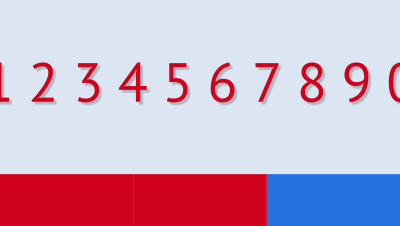
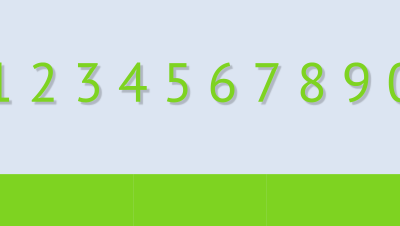
Insert zip content

diff --git a/.contentfusion/templates/1 2 3 4 5 6 7 8 9 0/styles.css b/.contentfusion/templates/1 2 3 4 5 6 7 8 9 0/styles.css
@@ -1,5 +1,5 @@
 /*#
-@colors&{"titlesAccentColor":"#d0021b","labelsAccentColor":"#d0021b","linksAccentColor":"#2372de","backgroundAccentColor":"#dce5f2","isDefault":true}&colors@
+@colors&{"titlesAccentColor":"#7ed321","labelsAccentColor":"#7ed321","linksAccentColor":"#7ed321","backgroundAccentColor":"#dce5f2","isDefault":true}&colors@
 @info@STYLES BASKET SELECTIONS METADATA@info@
 @name&styles_basket&name@
 @aspects&wh-tiles,wh-menu-page-colors-link-color,wh-search-component-colors-white,wh-search-component-background-color-light,wh-search-component-padding-extra-extra-large,titles-color-labels,wh-left-toc-underline-selection,wh-breadcrumb-colors-custom,wh-index-terms-styles-titles-bold,notes-layout-two-lines,notes-style-borders-box,notes-colors-colorful,wh-footer-background-color-light,table-colors-black-white,related-links-background-accent-color,related-links-colors-titles,fonts-selector,accent-colors-selector&aspects@
@@ -68,23 +68,23 @@
 *[class~="placeholder/figurelist"] > *[class~="topic/title"],
 *[class~="placeholder/tablelist"] > *[class~="topic/title"],
 *[class~="index/groups"]::before {
-  color: #d0021b;
+  color: #7ed321;
 }
 *[class~='topic/shortdesc']:before {
-  color: #d0021b;
+  color: #7ed321;
 }
 *[class~='topic/xref'],
 *[class~='topic/link'] {
-  color: #2372de;
+  color: #7ed321;
 }
 .related-links a,
 .related-links a:visited {
-  color: #2372de;
+  color: #7ed321;
 }
 a,
 a:hover,
 a:visited {
-  color: #2372de;
+  color: #7ed321;
 }
 *[class~='topic/table'] th {
   background-color: #dce5f2;
@@ -130,7 +130,7 @@ body {
 *[class~="placeholder/figurelist"] > *[class~="topic/title"],
 *[class~="placeholder/tablelist"] > *[class~="topic/title"],
 *[class~="index/groups"]::before {
-  color: #d0021b;
+  color: #7ed321;
 }
 /*table-colors-black-white*/
 *[class~='topic/table'] th {
@@ -167,7 +167,7 @@ span.note__title {
 }
 /*related-links-colors-titles*/
 *[class~="topic/linklist"] > strong {
-  color: #d0021b;
+  color: #7ed321;
 }
 /*related-links-background-accent-color*/
 *[class~="topic/linklist"] {
@@ -196,7 +196,7 @@ span.note__title {
 }
 .wh_top_menu > ul > li a,
 .wh_indexterms_link a::before {
-  color: #2372de;
+  color: #7ed321;
 }
 .wh_indexterms_link a span {
   display: none;
